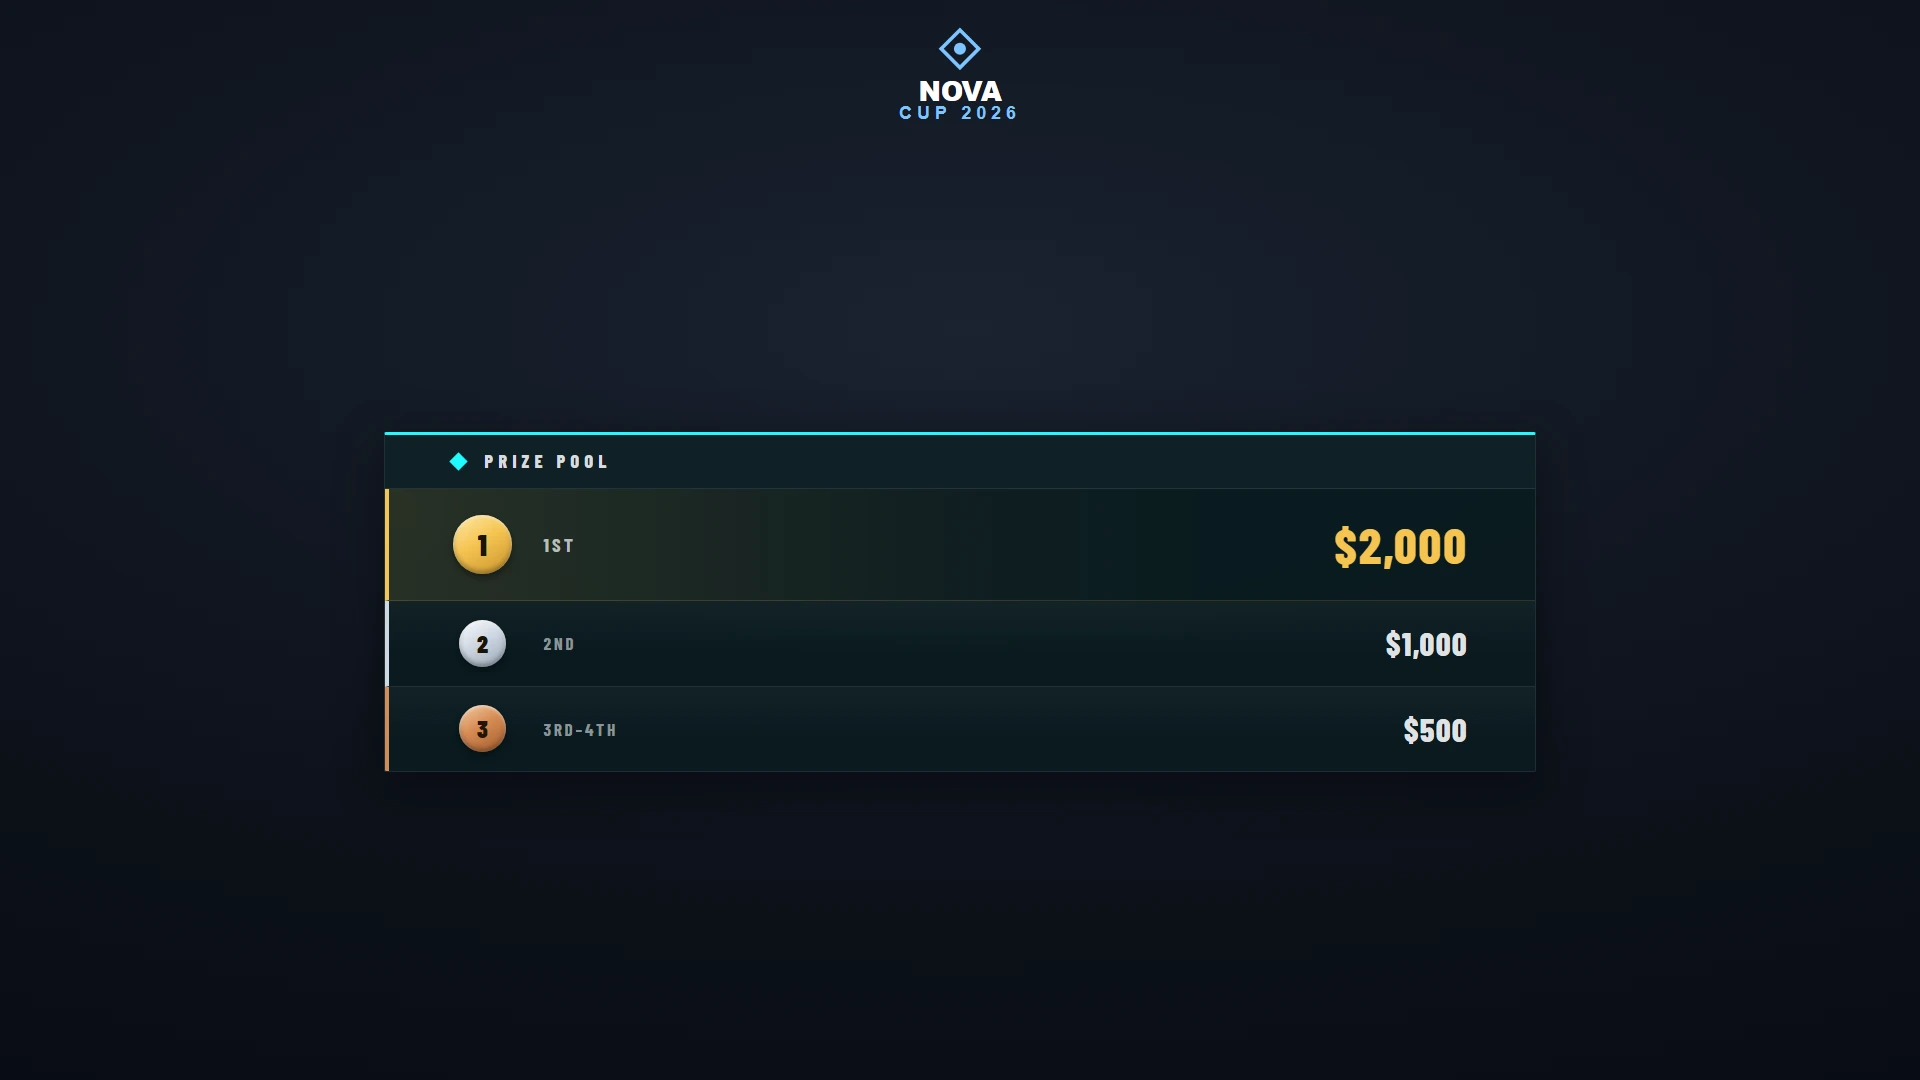
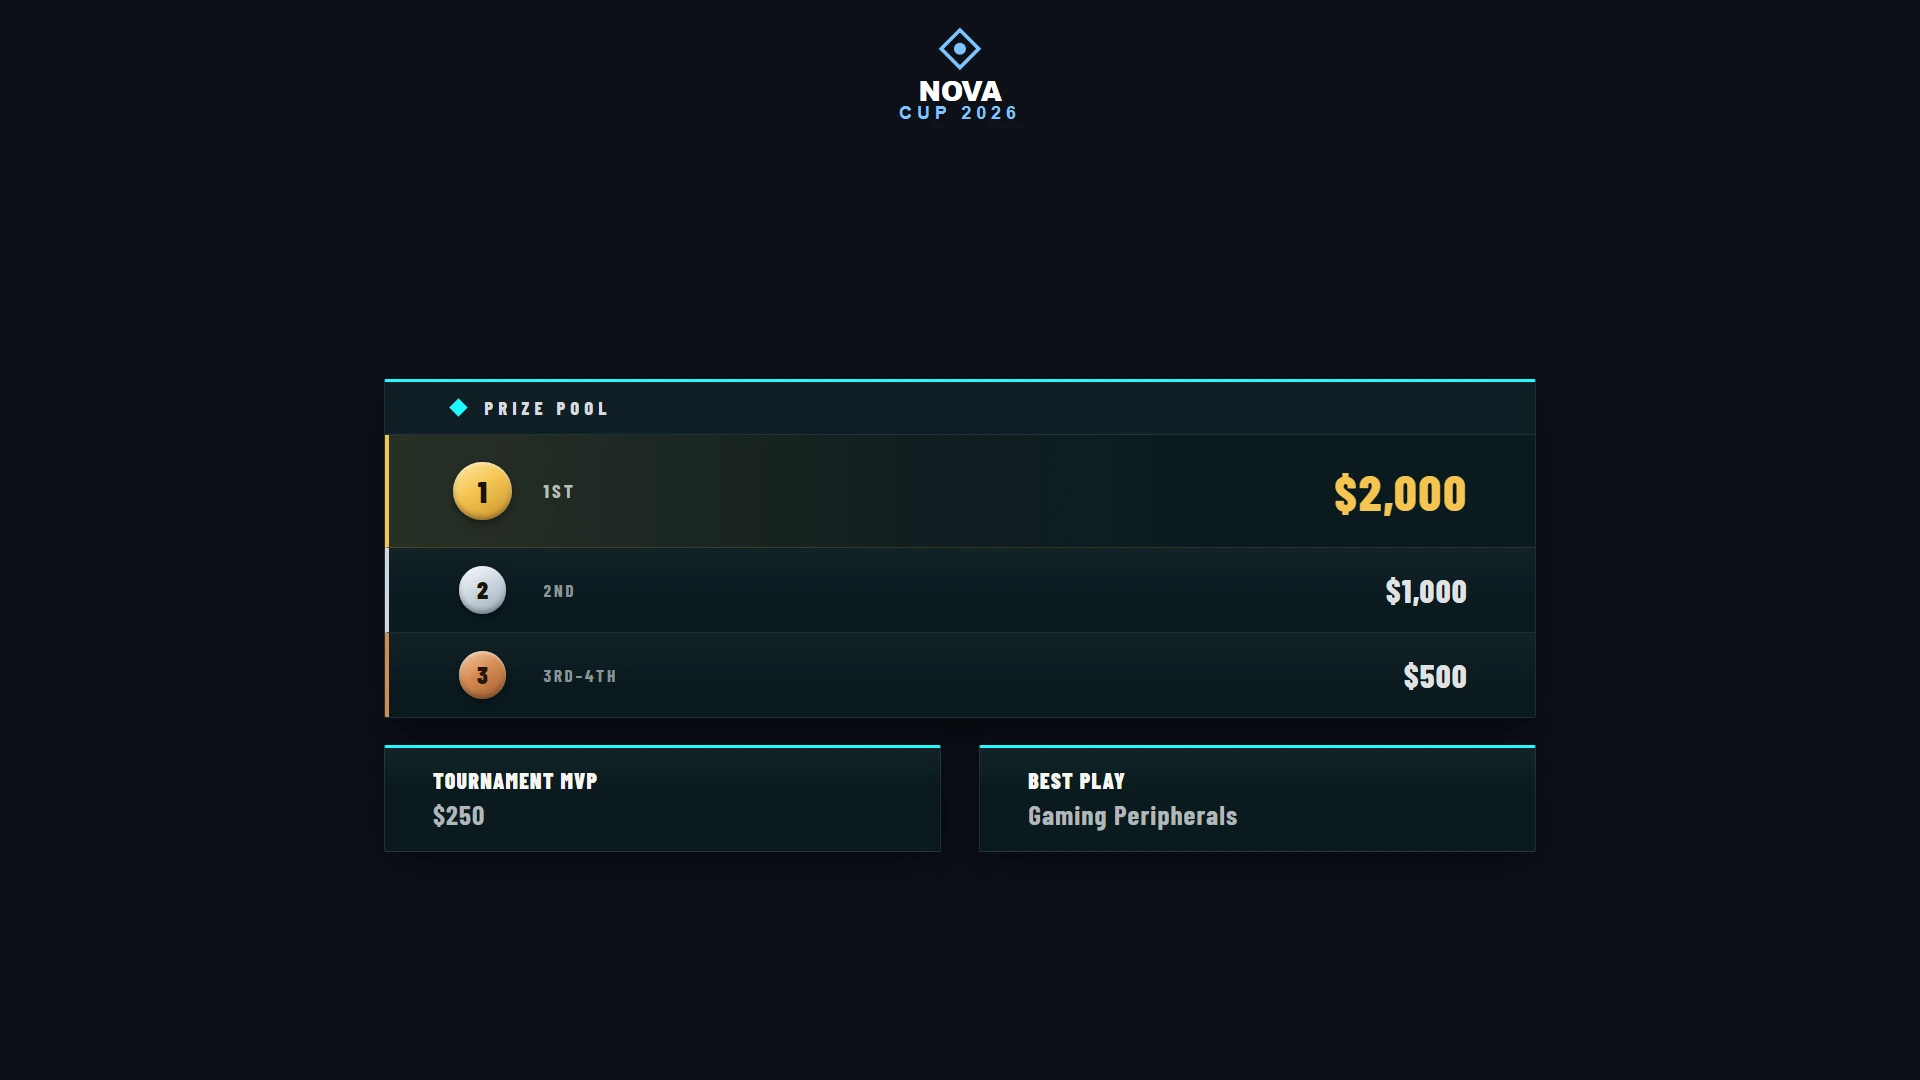
fix(help): inline emphasis no longer block-breaks; doc image corrections
help viewer: `p > em:only-child` styled single-element-child <em> as a block
caption, but :only-child ignores surrounding text nodes, so any inline *word*
in a paragraph was being block-broken mid-sentence (e.g. the BG Output
"Performance" note). Tag true caption <em> (whose text is the whole paragraph)
in help.js and style that class instead; image/standalone captions preserved.

docs images:
- player-spotlight lower-third re-shot as the correct bottom band — the prior
  shot used format:"lower" (overlay expects "l3") so no band CSS applied. Adds
  a both-players L3 variant alongside the single-player one.
- prizepool re-shot with two Bonus/Sponsor awards so the bonus-card row beneath
  the placements is shown; doc clarifies placement vs bonus entries.

diff --git a/public/help/help.js b/public/help/help.js
@@ -92,6 +92,13 @@
       img.setAttribute('loading', 'lazy');
       img.classList.add('help-img');                 // click-to-enlarge (see lightbox)
     });
+    // Figure captions: an <em> whose text is the WHOLE paragraph (a standalone
+    // *caption* line, or one right after an image) reads as a caption and gets
+    // block styling. Detected here rather than via CSS :only-child, which ignores
+    // text nodes and would mis-flag inline emphasis surrounded by prose.
+    Array.prototype.forEach.call(root.querySelectorAll('p > em'), function (em) {
+      if (em.textContent.trim() === em.parentNode.textContent.trim()) em.classList.add('help-caption');
+    });
     Array.prototype.forEach.call(root.querySelectorAll('a[href]'), function (a) {
       var href = a.getAttribute('href');
       var m;

diff --git a/public/help/help.css b/public/help/help.css
@@ -149,7 +149,10 @@ body {
 }
 .markdown-body img.help-img { cursor: zoom-in; transition: border-color .12s ease; }
 .markdown-body img.help-img:hover { border-color: var(--border-strong); }
-.markdown-body img + em, .markdown-body p > em:only-child {
+/* Figure caption: an <em> that is the whole paragraph (tagged in help.js). CSS
+   :only-child can't be used — it ignores the text nodes around an inline
+   *emphasis*, so it would wrongly block-break a single italic word mid-sentence. */
+.markdown-body em.help-caption {
   display: block; font-size: 12.5px; color: var(--text-dim); margin: 0 0 18px;
 }
 

diff --git a/docs/prizepool.md b/docs/prizepool.md
@@ -2,14 +2,16 @@
 
 A breakdown of the prize distribution — placements and amounts, with optional sponsor credit. Output at `/graphics/prizepool/`.
 
-![Prizepool breakdown](img/prizepool.webp)
+Placements stack in the main table; any **Bonus / Sponsor** awards (e.g. MVP, Best Play) sit as cards in a row beneath it:
+
+![Prizepool breakdown — placements with bonus award cards below](img/prizepool.webp)
 
 > **Scope:** the prize/sponsor tools are for crediting sponsors who contribute to a community/grassroots event's **prize pool** — not for selling commercial ad space. See the note in the [README](../README.md).
 
 ## Setup
 
 1. In **[Tournament Setup → Prizepool](tournament-setup.md#prizepool)**, tick **This tournament has a prizepool**.
-2. In the **Prizepool graphics tab**, add entries — each has a **label** (e.g. "1st", "3rd–4th"), a **value** (e.g. "$2,000"), an optional **highlight**, and optional **sponsor name/logo** or a prize image.
+2. In the **Prizepool graphics tab**, add entries. Each is either a **Placement** (a row in the main table) or a **Bonus / Sponsor** award (a card in the row below — for MVP / side prizes / sponsor-backed extras). Every entry has a **label** (e.g. "1st", "Tournament MVP"), a **value** (e.g. "$2,000", "Gaming Peripherals"), an optional **highlight**, and optional **sponsor name/logo** or a prize image.
 
 ## Display options
 

diff --git a/docs/player-spotlight.md b/docs/player-spotlight.md
@@ -10,9 +10,13 @@ All controls live on the **Player Spotlight** tab in the control panel. Output U
 
 ![Player Spotlight — fullscreen Both view](img/player-spotlight-full.webp)
 
-**Lower-third** — a single player over the live feed:
+**Lower-third** — a bottom band over the live feed; the champion sits at its own screen edge and fades in. Single player:
 
-![Player Spotlight — lower-third](img/player-spotlight-l3.webp)
+![Player Spotlight — lower-third, single player](img/player-spotlight-l3.webp)
+
+…or both players, each in their own corner with the centre VS badge:
+
+![Player Spotlight — lower-third, both players](img/player-spotlight-l3-both.webp)
 
 ## Picking the players
 
